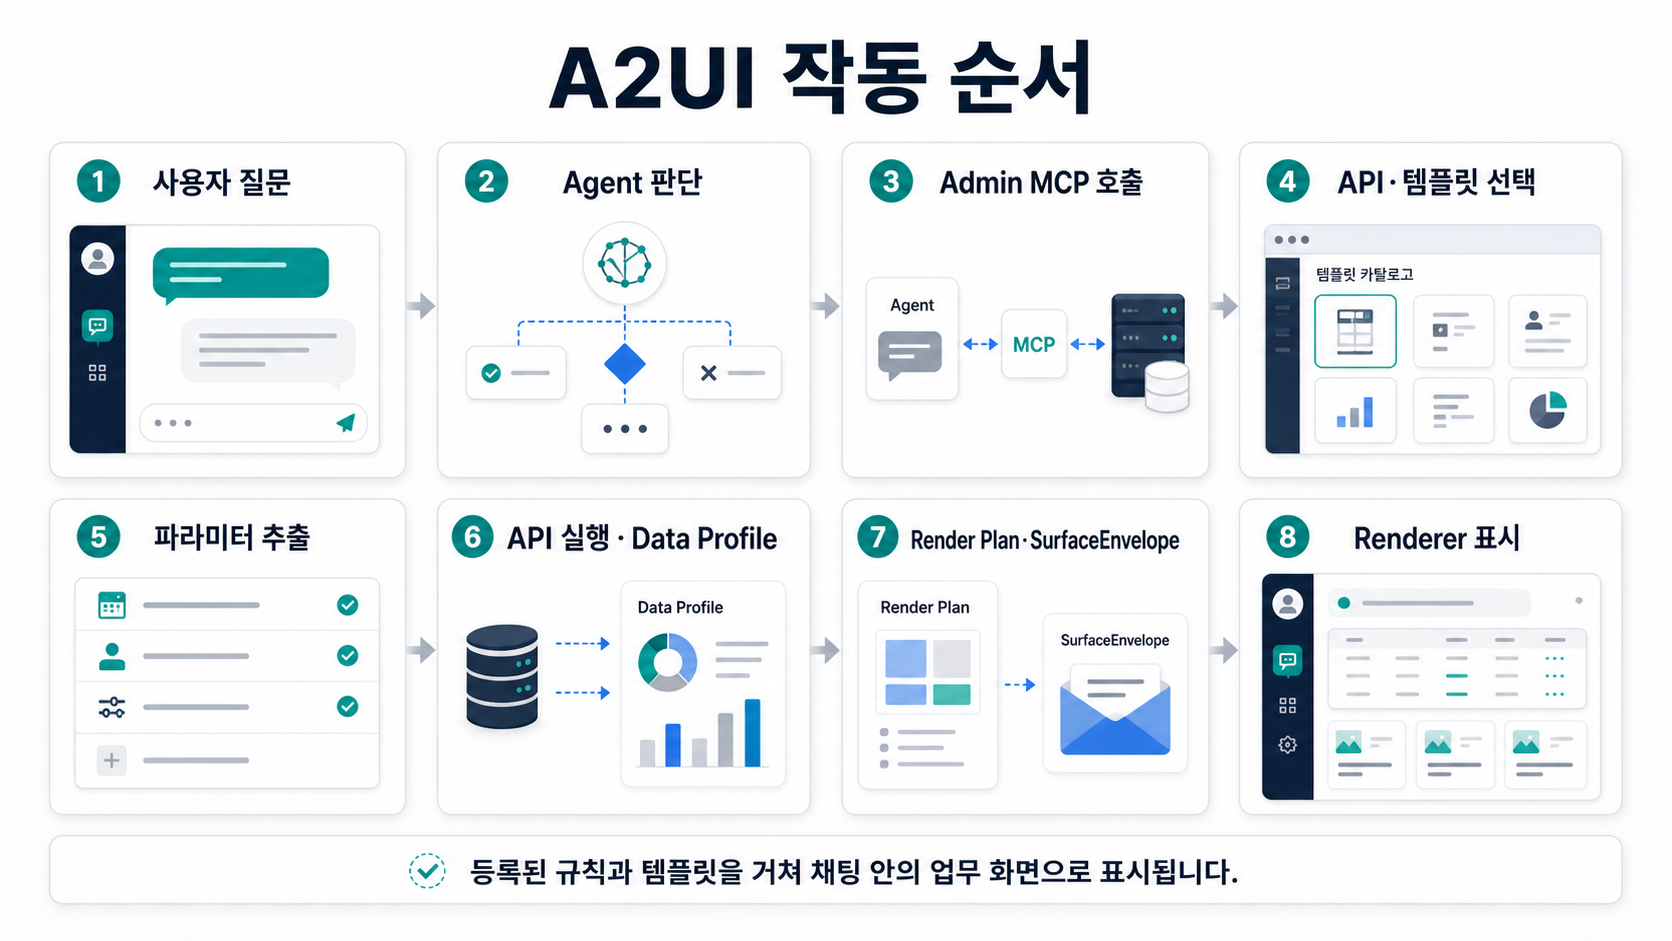
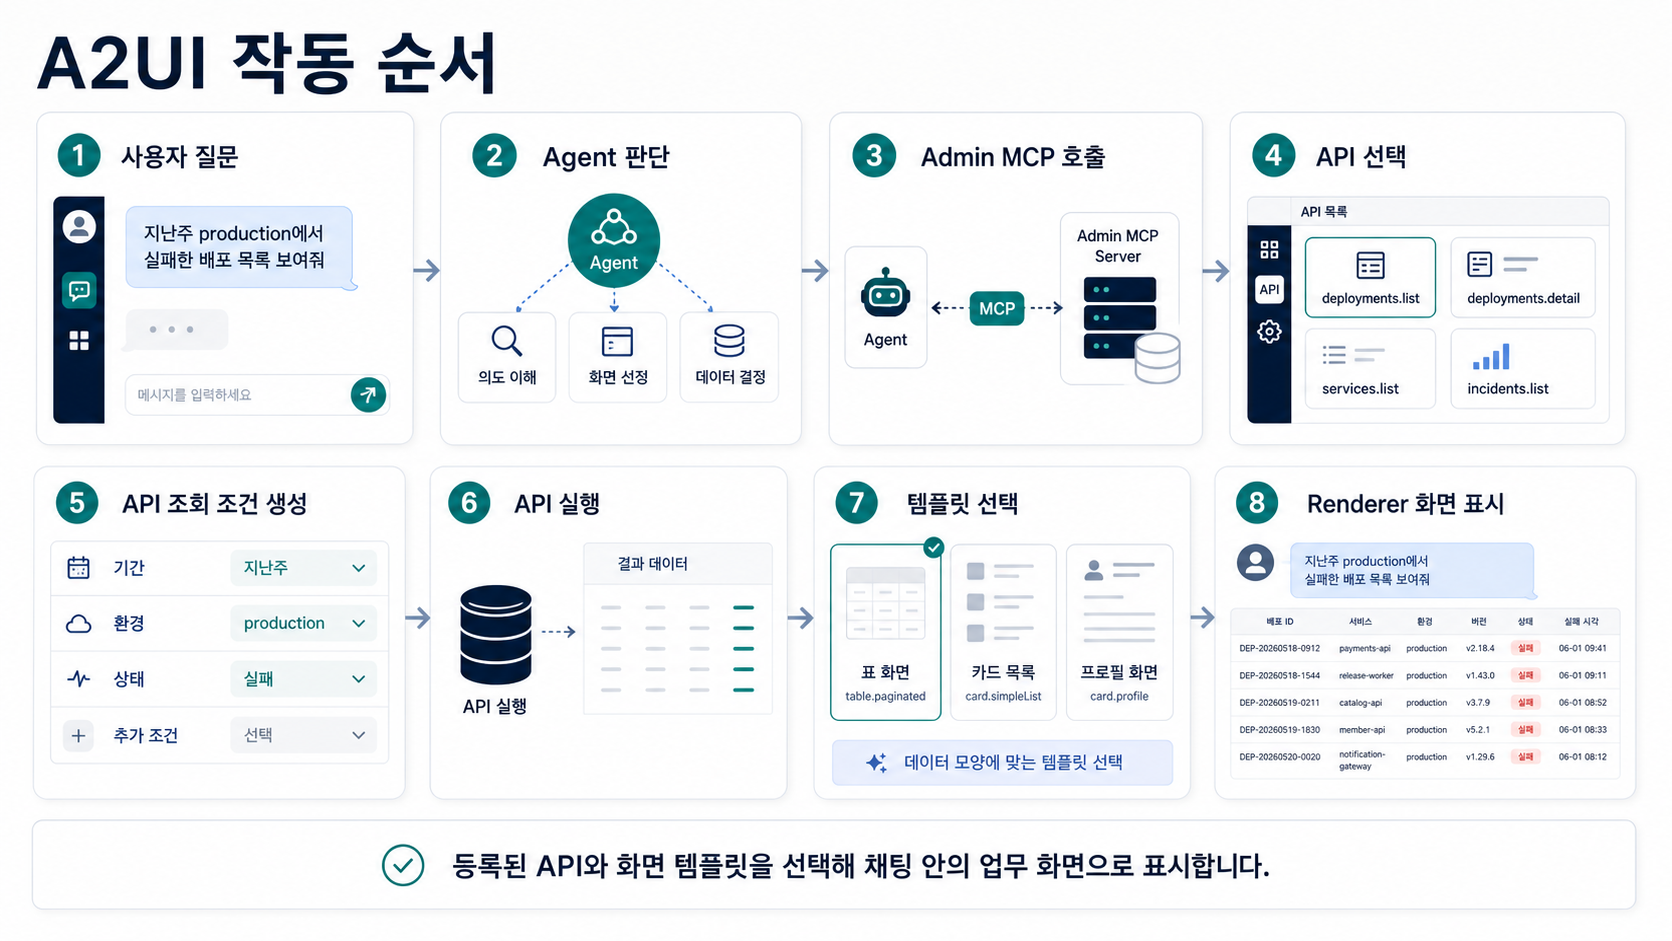
Update A2UI runtime flow slide

diff --git a/docs/20260605_a2ui_product_intro_presentation.html b/docs/20260605_a2ui_product_intro_presentation.html
@@ -785,7 +785,7 @@
 
         <figure class="generated-visual runtime-visual">
           <button class="visual-button" type="button" aria-label="A2UI 작동 순서 이미지 원본 보기">
-            <img src="../public/images/a2ui-poc/product-intro/runtime-flow-v2.png" alt="A2UI가 사용자 질문에서 요청 분류, Admin MCP 호출, 등록된 API 선택, 조회 조건 생성, API 실행, 등록된 화면 규칙 매칭을 거쳐 Renderer 표시로 이어지는 8단계 작동 순서" />
+            <img src="../public/images/a2ui-poc/product-intro/slides/slide-06-runtime-flow.png" alt="A2UI가 사용자 질문, Agent 판단, Admin MCP 호출, API 선택, API 조회 조건 생성, API 실행, 템플릿 선택을 거쳐 Renderer 화면 표시로 이어지는 8단계 작동 순서" />
           </button>
         </figure>
       </div>

diff --git a/public/docs/20260605_a2ui_product_intro_presentation.html b/public/docs/20260605_a2ui_product_intro_presentation.html
@@ -785,7 +785,7 @@
 
         <figure class="generated-visual runtime-visual">
           <button class="visual-button" type="button" aria-label="A2UI 작동 순서 이미지 원본 보기">
-            <img src="/images/a2ui-poc/product-intro/runtime-flow-v2.png" alt="A2UI가 사용자 질문에서 요청 분류, Admin MCP 호출, 등록된 API 선택, 조회 조건 생성, API 실행, 등록된 화면 규칙 매칭을 거쳐 Renderer 표시로 이어지는 8단계 작동 순서" />
+            <img src="/images/a2ui-poc/product-intro/slides/slide-06-runtime-flow.png" alt="A2UI가 사용자 질문, Agent 판단, Admin MCP 호출, API 선택, API 조회 조건 생성, API 실행, 템플릿 선택을 거쳐 Renderer 화면 표시로 이어지는 8단계 작동 순서" />
           </button>
         </figure>
       </div>